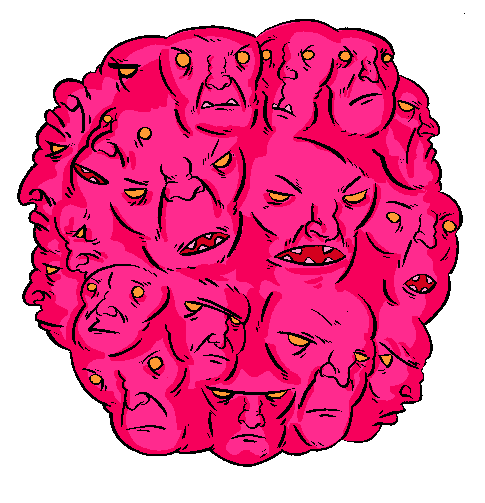
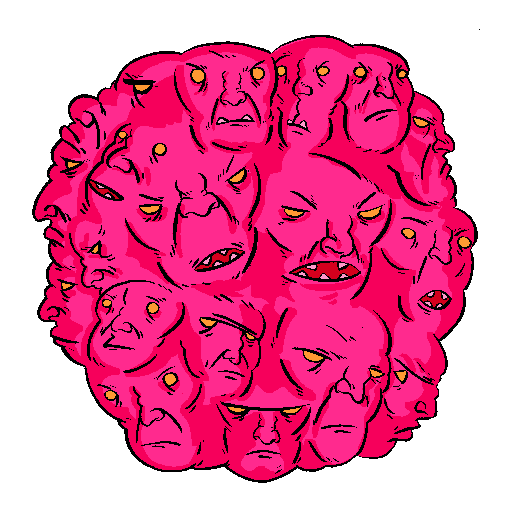
Initial version of textured planetoids

diff --git a/src/PhysicsObject.cpp b/src/PhysicsObject.cpp
@@ -10,19 +10,31 @@
 #include "cinder/Vector.h"
 #include "cinder/CinderMath.h"
 #include "cinder/app/App.h"
-#include "cinder/gl/gl.h"
+#include "cinder/ImageIo.h"
+#include "cinder/Utilities.h"
+#include "cinder/CinderResources.h"
 #include "Conversions.h"
 #include "Constants.h"
+#include "Resources.h"
+#include "cinder/Rect.h"
 
 using namespace ci;
+using namespace ci::box2d;
+
 PhysicsObject::PhysicsObject( b2Body* aBody ) {
-	_body = aBody;
 	std::cout << "PhysicsObject created!" << std::endl;
+
+	setBody( aBody );
+	texture = gl::Texture( loadImage( ci::app::App::get()->loadResource( RES_PLANET ) ) );;
 }
 
 PhysicsObject::~PhysicsObject() {
 	std::cout << "PhysicsObject destructor!" << std::endl;
 	_body = NULL;
+}
+
+void PhysicsObject::setupTexture() {
+	texture = gl::Texture( loadImage( ci::app::App::get()->loadResource( RES_PLANET ) ) );
 }
 
 void PhysicsObject::update() {
@@ -32,7 +44,6 @@ void PhysicsObject::update() {
 }
 
 void PhysicsObject::applyRadialGravity( b2Vec2 center ) {
-	using namespace ci::box2d;
 	b2Vec2 pos = _body->GetPosition();
 	b2Vec2 delta = center - pos;
 
@@ -63,9 +74,28 @@ void PhysicsObject::limitSpeed() {
 }
 
 void PhysicsObject::draw() {
-	gl::color( ColorA(1.0f, 0.0, 0.1f, 0.2f ) );
-	gl::pushMatrices(); // Store old matrix
-	gl::translate( ci::box2d::Conversions::toScreen( _body->GetPosition() ) );
+
+
+	if( !texture ) return;
+
+	gl::color( ColorA(1.0f, 1.0f, 1.0f, 1.0f) );
+	gl::pushMatrices();
+		gl::translate( ci::box2d::Conversions::toScreen( _body->GetPosition() ) );
+			gl::rotate( ci::box2d::Conversions::radiansToDegrees( _body->GetAngle() ) );
+				float desiredRadius = _radius;
+				ci::Vec2f pos = ci::box2d::Conversions::toScreen( _body->GetPosition() ) ;
+				ci::Rectf rect = Rectf(desiredRadius*-0.5,
+						desiredRadius*-0.5,
+						desiredRadius,
+						desiredRadius );
+				gl::draw( texture, rect );
+	gl::popMatrices();
+}
+
+void PhysicsObject::debugDraw() {
+
+	glMatrixMode( GL_MODELVIEW );
+	glPushMatrix();
 		b2Fixture* fixture = _body->GetFixtureList();
 		while( fixture != NULL ) {
 			switch( fixture->GetType() ) {
@@ -91,4 +121,11 @@ void PhysicsObject::draw() {
 			fixture = fixture->GetNext();
 		}
 	gl::popMatrices();
+}
+
+
+///// ACCESSORS
+void PhysicsObject::setBody( b2Body* aBody ) {
+	_body = aBody;
+	_radius = ci::box2d::Conversions::toScreen( _body->GetFixtureList()->GetShape()->m_radius );
 }

diff --git a/src/NeruSphereApp.cpp b/src/NeruSphereApp.cpp
@@ -25,6 +25,7 @@
 #include "AudioAnalyzer.h"
 #include "Constants.h"
 #include "PhysicsObject.h"
+#include "Planet.h"
 #include <vector>
 
 using namespace ci::box2d;
@@ -32,7 +33,8 @@ using namespace ci;
 class NeruSphereApp : public ci::app::AppBasic {
 public:
 	WorldController _worldController;
-	b2Body* _planet;
+	b2Body* _planetBody;
+	Planet* _planetPhysicsObject;
 	AudioAnalyzer _audioAnalyzer;
 
 	void setup();
@@ -52,17 +54,13 @@ void NeruSphereApp::setup() {
 	std::cout << "Setting application path: " << getAppPath() << std::endl;
 	chdir( getAppPath().c_str( ) );
 
+	_planetBody = NULL;
+	_planetPhysicsObject = NULL;
+
 	_worldController.init( 4, 2 );
 	setupHeads();
 
-//	Constants::Instances::PERLIN_NOISE = Perlin(4, ci::Rand::randInt(999));
-	_planet = NULL;
-
-//	for(uint32_t j = 0; j < 60 * 5; j++) {
-//		_worldController.update();
-//		doGravity(j);
-//	}
-
+	ci::gl::enableAlphaBlending();
 }
 
 void NeruSphereApp::setupHeads() {
@@ -88,7 +86,9 @@ void NeruSphereApp::update() {
 	_audioAnalyzer.update();
 
 	using namespace ci::box2d;
-	if(_planet) _worldController.getWorld()->DestroyBody(_planet);
+	if(_planetBody) {
+		_worldController.getWorld()->DestroyBody(_planetBody);
+	}
 
 	// Shape definition
 	b2CircleShape aShape;
@@ -107,11 +107,22 @@ void NeruSphereApp::update() {
 	mBodyDef.position = Conversions::toPhysics( getWindowCenter() );
 	b2Body* body = _worldController.getWorld()->CreateBody( &mBodyDef );
 	body->CreateFixture( &mFixtureDef );
-	_planet = body;
+
+	_planetBody = body;
+
+	if( _planetPhysicsObject ) {
+		_planetPhysicsObject->setBody( body );
+	} else {
+		_planetPhysicsObject = new Planet( body );
+	}
+
+	body->SetUserData( _planetPhysicsObject );
 }
 
 void NeruSphereApp::draw() {
 	ci::gl::clear( ci::Color(0,0,0) );
+	ci::gl::color( ColorA(1.0f, 1.0f, 1.0f, 1.0f ) );
+
 	_worldController.draw();
 	_audioAnalyzer.draw();
 }

diff --git a/src/PhysicsObject.h b/src/PhysicsObject.h
@@ -8,6 +8,8 @@
 #ifndef PHYSICSOBJECT_H_
 #define PHYSICSOBJECT_H_
 #include <Box2D/Box2D.h>
+#include "cinder/gl/gl.h"
+#include "cinder/gl/Texture.h"
 
 class PhysicsObject
 {
@@ -20,12 +22,16 @@ class PhysicsObject
 		void update();
 		// Draws the body
 		void draw();
-		bool isDead() { return false; };
+		void debugDraw();
 
 		///// ACCESSORS
 		b2Body*getBody() const { return _body; }
+		void setBody( b2Body* aBody );
+		bool isDead() { return false; };
 
 	protected:
+		void setupTexture();
+
 		// Applies radial gravity - assumes center is in physics units
 		void applyRadialGravity( b2Vec2 center );
 		// Applies perlin noise to the bodies motion
@@ -38,6 +44,8 @@ class PhysicsObject
 		int	_lifetime;
 		int _age;
 		float _agePer;
+
+		ci::gl::Texture texture;
 };
 
 #endif /* PHYSICSOBJECT_H_ */

diff --git a/src/Planet.cpp b/src/Planet.cpp
@@ -1,0 +1,24 @@
+/*
+ * Planet.cpp
+ *
+ *  Created on: Sep 25, 2011
+ *      Author: onedayitwillmake
+ */
+
+#include "Planet.h"
+#include "cinder/gl/gl.h"
+#include "cinder/gl/Texture.h"
+#include "cinder/CinderResources.h"
+#include "cinder/ImageIo.h"
+#include "cinder/app/App.h"
+#include "Resources.h"
+
+
+Planet::~Planet() {
+	std::cout << "Planet created" << std::endl;
+}
+
+void Planet::update() {}
+void Planet::setupTexture() {
+	texture = ci::gl::Texture( ci::loadImage( ci::app::App::get()->loadResource( RES_PLANET ) ) );
+}

diff --git a/src/Planet.h b/src/Planet.h
@@ -1,0 +1,26 @@
+/*
+ * Planet.h
+ *
+ *  Created on: Sep 25, 2011
+ *      Author: onedayitwillmake
+ */
+
+#ifndef PLANET_H_
+#define PLANET_H_
+#include "PhysicsObject.h"
+#include <Box2D/Box2D.h>
+
+
+
+class Planet : public PhysicsObject
+{
+	public:
+		Planet( b2Body* aBody ): PhysicsObject( aBody ) {};
+		virtual ~Planet();
+
+		void update();
+	protected:
+		void setupTexture();
+};
+
+#endif /* PLANET_H_ */

diff --git a/src/Constants.h b/src/Constants.h
@@ -23,7 +23,8 @@ namespace Constants {
 	};
 
 	struct Defaults {
-		const static int HEAD_COUNT = 400;
+
+		const static int HEAD_COUNT = 4;
 		const static bool DEBUG_DRAW = false;
 	};
 }

diff --git a/include/Resources.h b/include/Resources.h
@@ -1,0 +1,3 @@
+#pragma once
+#include "cinder/CinderResources.h"
+#define RES_PLANET    CINDER_RESOURCE( ../resources/, gromacirclepink.png, 128, IMAGE )
